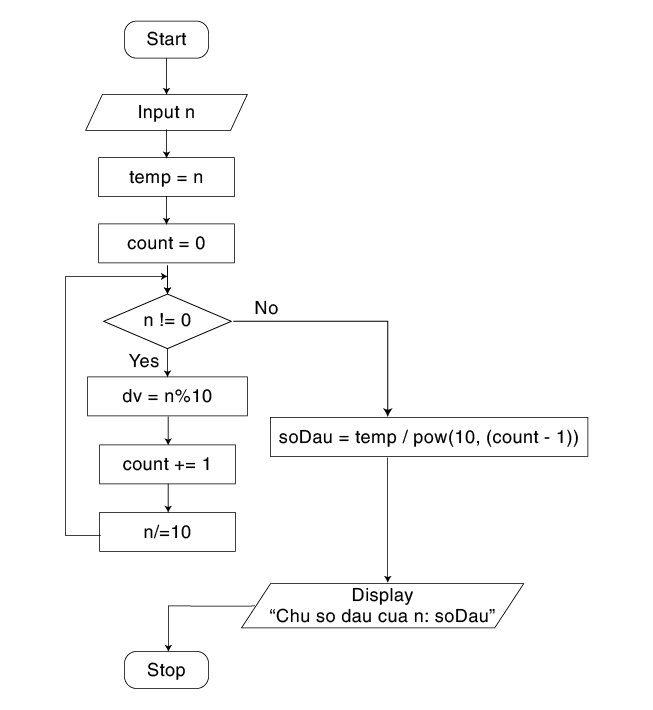
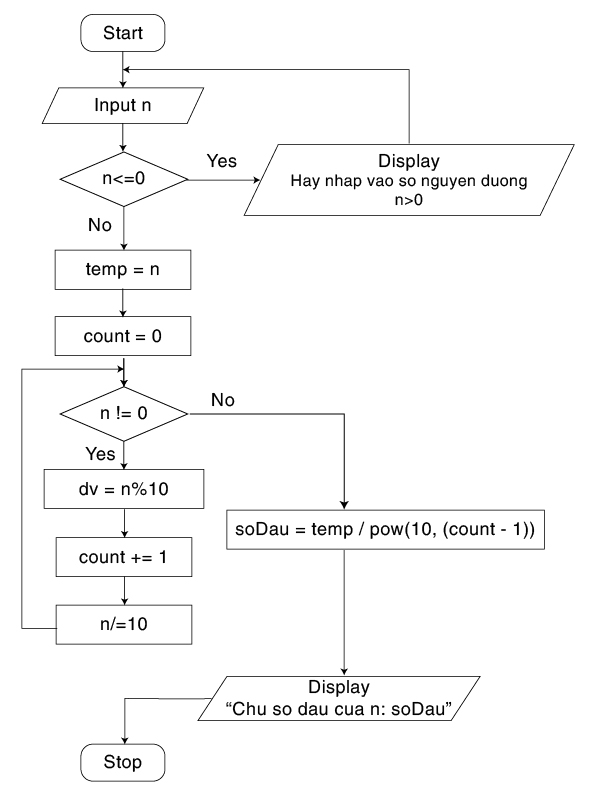
update homeWork

diff --git a/homeWorksS6/chuSodauTien.cpp b/homeWorksS6/chuSodauTien.cpp
@@ -6,11 +6,11 @@ int main(){
 	int n, temp, c;
 	
 	do{
-		printf("Nhap vao so nguyen duong n: ");
+		printf("\nNhap vao so nguyen duong n: ");
 		scanf("%d", &n);
 		
 		if(n<=0){
-			printf("Hay nhap vao so nguyen duong (n>0)!\n");
+			printf("\nHay nhap vao so nguyen duong (n>0)!\n");
 		}	
 	} while (n<=0);
 	
@@ -31,7 +31,7 @@ int main(){
 			
 	int soDau = temp/pow(10,c-1);
 	
-	printf("Chu so dau tien cua n: %d", soDau);
+	printf("\nChu so dau tien cua n: %d", soDau);
 	
 	return 0;
 	

diff --git a/homeWorksS6/so_NT_a_to_b.cpp b/homeWorksS6/so_NT_a_to_b.cpp
@@ -5,6 +5,7 @@ int main(){
 	int a, b;
 	
 	
+	
 	do {
 		
 		printf("\nHay nhap vao hai so a va b (a<b):\n");
@@ -16,10 +17,12 @@ int main(){
 		scanf("%d", &b);
 		
 			if(a>=b){
-				printf("\n>>>> a phai <= b! <<<\n\n==> Hay nhap lai! <==\n");
+				printf("\n>>>> a phai < b! <<<\n\n==> Hay nhap lai! <==\n");
 			} 
 			
 	} while(a>=b);
+	
+	
 	
 	for(int i = a; i <= b; i++){
 		
